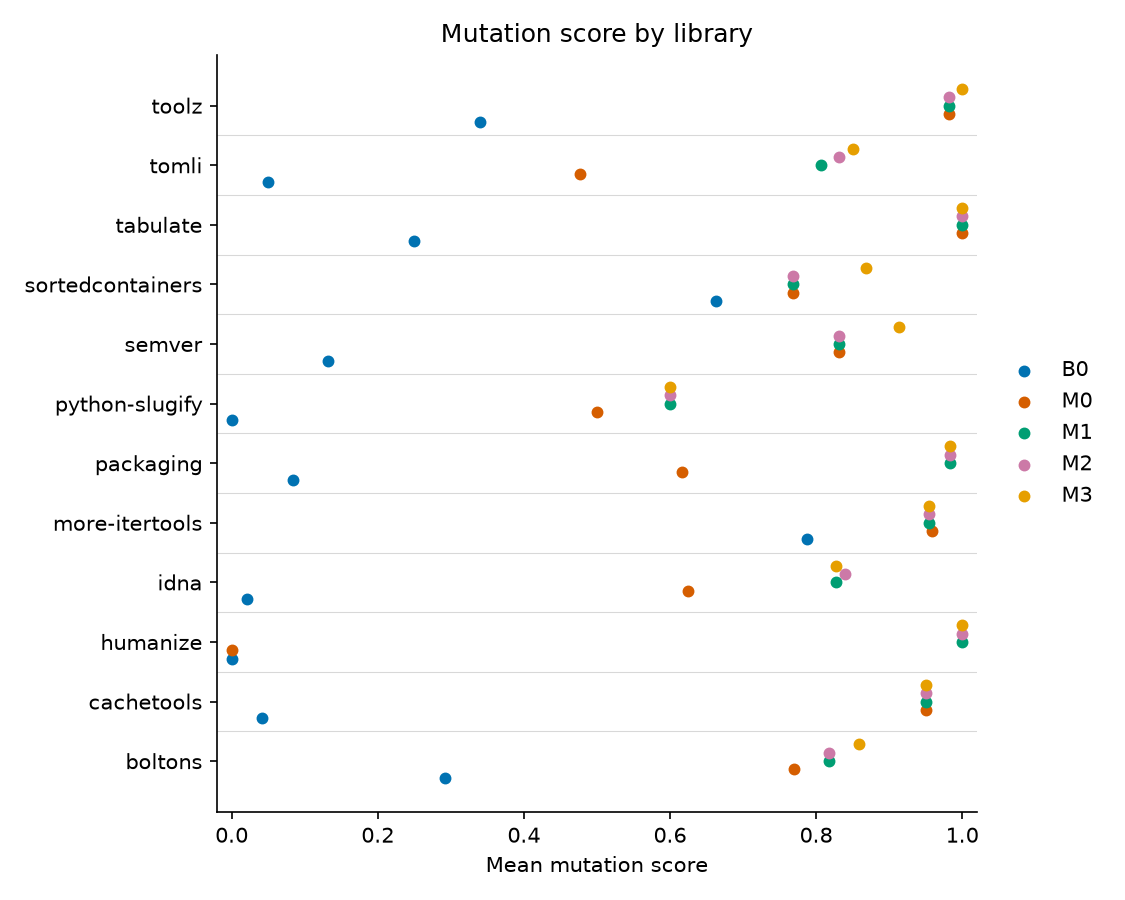
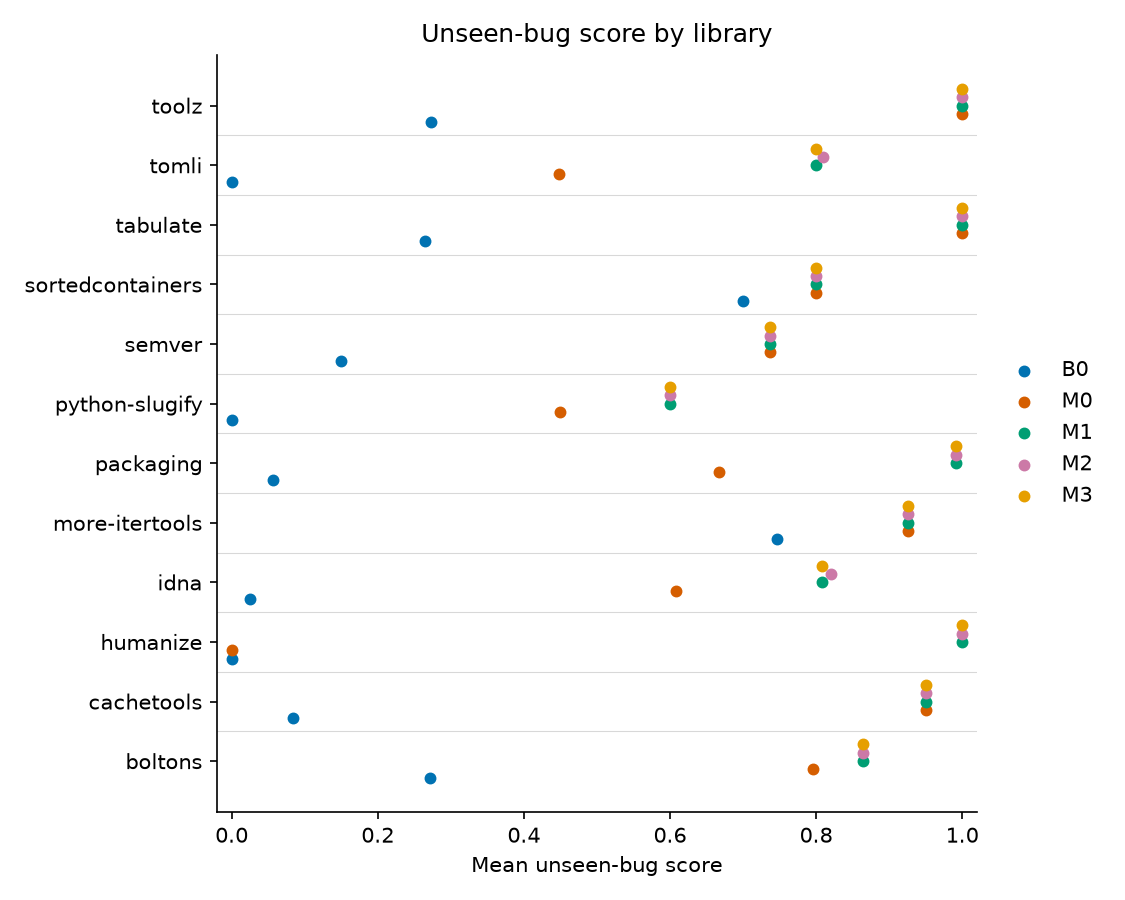
Step 6: dev results graded on unseen bugs; M3 matches M1 on all 68 functions

diff --git a/testpilot/report/evaluation.py b/testpilot/report/evaluation.py
@@ -61,10 +61,7 @@ def seed_table(
             cells = ", ".join(f"seed {s}: {m:.3f} (n={n})" for s, m, n in per_seed)
             lines.append(f"| {mode.upper()} | {cells} | {mu:.3f} | {sd:.3f} |")
     if not lines:
-        return (
-            "Not run yet: no mode has more than one seed scored. LLM modes need an API key; "
-            "see the run commands below.\n"
-        )
+        return "Not run yet: no mode has more than one seed scored.\n"
     return (
         "| Mode | Score per seed | Mean | Std dev over seeds |\n|---|---|---|---|\n"
         + "\n".join(lines)
@@ -106,6 +103,19 @@ def facts(scores: dict[str, dict]) -> str:
                 f"{sum(r.get('n_memory_kills', 0) for r in rs)} by the memory limit."
             )
     return "\n".join(out)
+
+
+def headroom(scores: dict[str, dict]) -> str:
+    """How many units a guided mode could still improve after M1."""
+    values = [r.get("unseen_score") for r in scores.get("m1", {}).values()]
+    values = [v for v in values if v is not None]
+    if not values:
+        return ""
+    full = sum(v == 1 for v in values)
+    return (
+        f"\n**Room to improve:** M1 already catches every unseen bug on {full} of {len(values)} "
+        f"units, so only {len(values) - full} could score higher with guidance.\n"
+    )
 
 
 HOLDOUT_NOTE = """
@@ -153,6 +163,9 @@ def build(split: str = "dev", seeds: list[int] | None = None, modes: list[str] |
     charts.gap_scatter(scores[gap_mode], gap_mode, folder / "chart_gap_scatter.png")
     charts.per_repo_dots(scores, folder / "chart_per_repo.png", key)
 
+    note = HOLDOUT_NOTE if key == "unseen_score" else ""
+    mode_list, seed_list = " ".join(scores), " ".join(map(str, seeds))
+
     text = f"""# Evaluation ({split} split)
 
 Scoring is fully automatic (tests run in the sandbox; no LLM judge). Primary metric: **mutation
@@ -169,7 +182,7 @@ units so an easier set of units cannot flatter one of them.
 
 ## Results
 
-{comparison_markdown(scores, seeds[0])}{HOLDOUT_NOTE if key == "unseen_score" else ""}
+{comparison_markdown(scores, seeds[0])}{headroom(scores)}{note}
 ![coverage vs mutation score](chart_coverage_vs_mutation.png)
 
 ![per-unit gap](chart_gap_scatter.png)
@@ -189,8 +202,8 @@ units so an easier set of units cannot flatter one of them.
 ## How to reproduce
 
 ```
-python -m testpilot.evaluate --modes b0 m1 m2 m3 --split {split} --seeds {" ".join(map(str, seeds))}
-python -m testpilot.cli report --split {split} --seeds {" ".join(map(str, seeds))}
+python -m testpilot.evaluate --modes {mode_list} --split {split} --seeds {seed_list}
+python -m testpilot.cli report --split {split} --modes {mode_list} --seeds {seed_list}
 ```
 
 See limitations.md for what these numbers do not show.
@@ -217,11 +230,11 @@ def limitations(scores: dict[str, dict]) -> str:
   (68 dev, 160 test), fewer than the 300 first planned. Bootstrap intervals over about 70 units
   are wide, so small differences between modes are not evidence. Results use the dev split unless
   stated; prompts were tuned on dev only, and the test split should be run once at the end.
-- **Scores can move with machine load.** A mutant run that times out or fails for any reason
-  counts as caught, and the scorer does not record which of these happened. On a busy laptop a
-  harmless slowdown can therefore raise a score; a test of the demo example once scored one extra
-  mutant as caught and matched again on reruns (load is the likely cause, not a proven one). Where
-  M1, M2 and M3 end with identical tests, compare their per-unit scores to check a given run.
+- **Scores can move with machine load.** A mutant run that times out is retried once with three
+  times the limit; if it times out again it counts as caught, and so does hitting the memory
+  limit (see the counts section for how often). Before the retry was added, rescoring the same
+  template-baseline tests changed the score of a few units, so a busy machine can still matter.
+  Where two modes end with identical tests, compare their per-unit scores to check a given run.
 - **Memorisation.** The libraries are popular and public, so the model may have seen their code
   and tests in training. Moving the repo's own tests out of the working copy stops copying from
   the prompt, not from memory. Scores may be inflated for the best-known libraries.
@@ -245,8 +258,8 @@ def limitations(scores: dict[str, dict]) -> str:
   planned for the main runs. The Gemini confirmation run has not been done, and its model ID is
   unverified. Free-tier token limits (about 200K a day) cap how many units and seeds can run.
 - **Seeds.** Variance over seeds is only measured where several seeds were actually run (a small
-  subset). With temperature 0 and cached calls, a "seed" mostly changes sampling of mutants, so
-  seed variance understates real model variance.
+  subset). A seed changes only the model's sampling seed; mutant samples and the shown/unseen
+  split stay fixed. At temperature 0 this probably understates how much results could vary.
 - **Missing comparisons.** B1 (the library's own human tests, scored per function) and B2
   (Pynguin) are not yet scored, so there is no human-test yardstick in the table.
 - **Sandbox.** Process limits and soft guards stop accidents, not a determined attacker; Docker in

diff --git a/tests/test_evaluation.py b/tests/test_evaluation.py
@@ -4,7 +4,7 @@ import pytest
 
 from testpilot import evaluate
 from testpilot.report import evaluation
-from testpilot.report.tables import load_scores
+from testpilot.report.tables import load_scores, paired_difference
 from testpilot.score.batch import score_dir
 
 
@@ -77,10 +77,15 @@ def test_report_ranks_modes_on_unseen_bugs(work, units):
         write_scores(work, mode, 0, rows)
     text = evaluation.build("dev", [0], ["m2", "m3"])
     assert "Compare modes on the unseen-bug score" in text
-    assert "M3 minus M2" in text and "unseen-bug score 0.50" in text
+    assert "M3 minus M2" in text and "unseen-bug score +0.500" in text
     assert "## By library (mean unseen-bug score)" in text and "0.75 (n=6)" in text
     limits = (evaluation.RESULTS / "dev" / "limitations.md").read_text(encoding="utf-8")
     assert "Unseen bugs are not unrelated bugs" in limits and "Small sample" in limits
+
+
+def test_a_difference_of_zero_everywhere_has_no_interval():
+    same = {u: {"unseen_score": 0.5} for u in "abc"}
+    assert paired_difference(same, same, "unseen_score") == "no difference on any of 3 units"
 
 
 def test_old_scores_without_unseen_bugs_are_not_presented_as_unseen(work, units):

diff --git a/testpilot/report/tables.py b/testpilot/report/tables.py
@@ -57,7 +57,17 @@ def paired_difference(a: dict, b: dict, key: str, seed: int = 0) -> str:
         for u in a.keys() & b.keys()
         if a[u].get(key) is not None and b[u].get(key) is not None
     ]
-    return f"{_fmt(diffs, seed)} (n={len(diffs)})" if diffs else "n/a"
+    if not diffs:
+        return "n/a"
+    if not any(diffs):
+        # A bootstrap of all zeros gives [0, 0], which would read as certainty.
+        return f"no difference on any of {len(diffs)} units"
+    low, high = bootstrap_ci(diffs, seed) or (diffs[0], diffs[0])
+    up, down = sum(d > 0 for d in diffs), sum(d < 0 for d in diffs)
+    return (
+        f"{mean(diffs):+.3f} [{low:+.3f}, {high:+.3f}] "
+        f"(higher on {up}, lower on {down}, n={len(diffs)})"
+    )
 
 
 def comparison_markdown(scores: dict[str, dict[str, dict]], seed: int = 0) -> str:

diff --git a/tests/test_scoring.py b/tests/test_scoring.py
@@ -134,4 +134,4 @@ def test_comparison_table_has_every_mode_and_a_paired_difference():
     text = comparison_markdown(scores)
     assert "| M2 |" in text and "| M3 |" in text and "M3 minus M2" in text
     assert mode_summary(list(scores["m2"].values()))["gap"].startswith("+")
-    assert paired_difference(scores["m2"], scores["m3"], "mutation_score").startswith("0.")
+    assert paired_difference(scores["m2"], scores["m3"], "mutation_score").startswith("+0.")

diff --git a/results/dev/evaluation.md b/results/dev/evaluation.md
@@ -1,8 +1,9 @@
 # Evaluation (dev split)
 
 Scoring is fully automatic (tests run in the sandbox; no LLM judge). Primary metric: **mutation
-score**, the share of injected bugs the tests catch. Line and branch coverage are reported beside
-it, because the project's question is how far coverage overstates test quality.
+score**, the share of injected bugs the tests catch. Modes are ranked on bugs held out from
+generation. Line and branch coverage are reported beside it, because the project's question is how
+far coverage overstates test quality.
 
 Modes with scored units here: B0 offline template (baseline), M0 single LLM call, M1 + repair, M2 coverage-guided (the coverage-only comparison), M3 mutation-guided.
 Modes without data are left out, not estimated.
@@ -15,21 +16,25 @@ units so an easier set of units cannot flatter one of them.
 
 Values are means with 95% bootstrap intervals over units.
 
-| Mode | Units | With tests | Line cov | Branch cov | Mutation score | Cov - mutation gap | Tokens/unit | Tokens/killed mutant |
-|---|---|---|---|---|---|---|---|---|
-| B0 | 68 | 65 | 0.41 [0.32, 0.49] | 0.30 [0.20, 0.39] | 0.27 [0.19, 0.36] | +0.14 | 0 | 0 |
-| M0 | 68 | 60 | 0.85 [0.77, 0.93] | 0.94 [0.89, 0.98] | 0.79 [0.70, 0.87] | +0.06 | 1516 | 188 |
-| M1 | 68 | 67 | 0.97 [0.94, 0.99] | 0.98 [0.96, 0.99] | 0.91 [0.87, 0.94] | +0.06 | 3092 | 296 |
-| M2 | 68 | 67 | 0.98 [0.94, 1.00] | 0.98 [0.97, 0.99] | 0.91 [0.87, 0.95] | +0.07 | 3523 | 335 |
-| M3 | 68 | 67 | 0.97 [0.94, 0.99] | 0.98 [0.96, 0.99] | 0.93 [0.89, 0.96] | +0.04 | 4822 | 455 |
+| Mode | Units | With tests | Line cov | Branch cov | Unseen-bug score | All-bug score | Cov - all-bug gap | Tokens/unit | Tokens/killed mutant |
+|---|---|---|---|---|---|---|---|---|---|
+| B0 | 68 | 65 | 0.41 [0.32, 0.49] | 0.30 [0.20, 0.39] | 0.25 [0.17, 0.34] | 0.26 [0.17, 0.35] | +0.15 | 0 | 0 |
+| M0 | 68 | 60 | 0.85 [0.77, 0.93] | 0.94 [0.89, 0.98] | 0.79 [0.70, 0.87] | 0.80 [0.71, 0.87] | +0.06 | 1516 | 177 |
+| M1 | 68 | 67 | 0.97 [0.94, 0.99] | 0.98 [0.96, 0.99] | 0.91 [0.86, 0.95] | 0.91 [0.87, 0.94] | +0.06 | 3092 | 296 |
+| M2 | 68 | 67 | 0.98 [0.94, 1.00] | 0.98 [0.97, 0.99] | 0.91 [0.86, 0.95] | 0.91 [0.87, 0.95] | +0.07 | 3523 | 335 |
+| M3 | 68 | 67 | 0.97 [0.94, 0.99] | 0.98 [0.96, 0.99] | 0.91 [0.86, 0.95] | 0.92 [0.88, 0.96] | +0.05 | 4242 | 403 |
 
-M3 minus M2 on the same units (positive = mutation-guided is better): mutation score 0.02 [0.00, 0.03] (n=68), line coverage -0.00 [-0.01, 0.00] (n=68).
+M3 minus M1 on the same units (positive = mutation-guided is better): unseen-bug score no difference on any of 68 units, line coverage no difference on any of 68 units.
 
-**Do not read M3's mutation score as a fair win.** M3 is shown the mutants that survived, keeps a
-new test file only if its score on them rises, and is then scored on those same mutants. Its score
-therefore cannot fall below that of the M1 tests it started from, and any lead over M1 or M2 is
-biased in its favour, whatever the interval says. M3 also asked for more guided rounds where its
-signal had more left to improve, so compare its tokens per unit too.
+M3 minus M2 on the same units (positive = mutation-guided is better): unseen-bug score -0.002 [-0.004, +0.000] (higher on 0, lower on 2, n=68), line coverage -0.005 [-0.012, -0.000] (higher on 0, lower on 4, n=68).
+
+**Room to improve:** M1 already catches every unseen bug on 47 of 68 units, so only 21 could score higher with guidance.
+
+**Compare modes on the unseen-bug score.** Each function's mutants are split in two by a fixed
+seed. Mutation-guided generation (M3) is shown survivors from one half only and decides what to
+keep using that half only. The unseen-bug score counts the other half, which no mode was told
+about. The all-bug score includes the half M3 saw, so it favours M3: it is listed for
+completeness and for the coverage gap, not for ranking M3.
 
 ![coverage vs mutation score](chart_coverage_vs_mutation.png)
 
@@ -37,40 +42,40 @@ signal had more left to improve, so compare its tokens per unit too.
 
 ![by library](chart_per_repo.png)
 
-## By library (mean mutation score)
+## By library (mean unseen-bug score)
 
 | Library | B0 | M0 | M1 | M2 | M3 |
 |---|---|---|---|---|---|
-| boltons | 0.29 (n=9) | 0.77 (n=9) | 0.82 (n=9) | 0.82 (n=9) | 0.86 (n=9) |
-| cachetools | 0.04 (n=4) | 0.95 (n=4) | 0.95 (n=4) | 0.95 (n=4) | 0.95 (n=4) |
+| boltons | 0.27 (n=9) | 0.80 (n=9) | 0.86 (n=9) | 0.86 (n=9) | 0.86 (n=9) |
+| cachetools | 0.08 (n=4) | 0.95 (n=4) | 0.95 (n=4) | 0.95 (n=4) | 0.95 (n=4) |
 | humanize | 0.00 (n=1) | 0.00 (n=1) | 1.00 (n=1) | 1.00 (n=1) | 1.00 (n=1) |
-| idna | 0.02 (n=4) | 0.62 (n=4) | 0.83 (n=4) | 0.84 (n=4) | 0.83 (n=4) |
-| more-itertools | 0.79 (n=9) | 0.96 (n=8) | 0.95 (n=9) | 0.95 (n=9) | 0.95 (n=9) |
-| packaging | 0.08 (n=9) | 0.62 (n=8) | 0.98 (n=9) | 0.98 (n=9) | 0.98 (n=9) |
-| python-slugify | 0.00 (n=1) | 0.50 (n=1) | 0.60 (n=1) | 0.60 (n=1) | 0.60 (n=1) |
-| semver | 0.13 (n=4) | 0.83 (n=4) | 0.83 (n=4) | 0.83 (n=4) | 0.91 (n=4) |
-| sortedcontainers | 0.66 (n=2) | 0.77 (n=2) | 0.77 (n=2) | 0.77 (n=2) | 0.87 (n=2) |
-| tabulate | 0.25 (n=9) | 1.00 (n=9) | 1.00 (n=9) | 1.00 (n=9) | 1.00 (n=9) |
-| tomli | 0.05 (n=7) | 0.48 (n=7) | 0.81 (n=7) | 0.83 (n=7) | 0.85 (n=7) |
-| toolz | 0.34 (n=9) | 0.98 (n=9) | 0.98 (n=9) | 0.98 (n=9) | 1.00 (n=9) |
+| idna | 0.03 (n=4) | 0.61 (n=4) | 0.81 (n=4) | 0.82 (n=4) | 0.81 (n=4) |
+| more-itertools | 0.75 (n=9) | 0.93 (n=9) | 0.93 (n=9) | 0.93 (n=9) | 0.93 (n=9) |
+| packaging | 0.06 (n=9) | 0.67 (n=9) | 0.99 (n=9) | 0.99 (n=9) | 0.99 (n=9) |
+| python-slugify | 0.00 (n=1) | 0.45 (n=1) | 0.60 (n=1) | 0.60 (n=1) | 0.60 (n=1) |
+| semver | 0.15 (n=4) | 0.74 (n=4) | 0.74 (n=4) | 0.74 (n=4) | 0.74 (n=4) |
+| sortedcontainers | 0.70 (n=2) | 0.80 (n=2) | 0.80 (n=2) | 0.80 (n=2) | 0.80 (n=2) |
+| tabulate | 0.26 (n=9) | 1.00 (n=9) | 1.00 (n=9) | 1.00 (n=9) | 1.00 (n=9) |
+| tomli | 0.00 (n=7) | 0.45 (n=7) | 0.80 (n=7) | 0.81 (n=7) | 0.80 (n=7) |
+| toolz | 0.27 (n=9) | 1.00 (n=9) | 1.00 (n=9) | 1.00 (n=9) | 1.00 (n=9) |
 
 ## Variance over seeds
 
-Not run yet: no mode has more than one seed scored. LLM modes need an API key; see the run commands below.
+Not run yet: no mode has more than one seed scored.
 
 ## Counts
 
-- B0: 68 units scored, 3 with no passing test, 779 mutants of which 0 flagged likely-equivalent.
-- M0: 68 units scored, 8 with no passing test, 630 mutants of which 0 flagged likely-equivalent.
-- M1: 68 units scored, 1 with no passing test, 798 mutants of which 0 flagged likely-equivalent.
-- M2: 68 units scored, 1 with no passing test, 798 mutants of which 0 flagged likely-equivalent.
-- M3: 68 units scored, 1 with no passing test, 798 mutants of which 0 flagged likely-equivalent.
+- B0: 68 units scored, 3 with no passing test, 779 mutants of which 0 flagged likely-equivalent. 423 held out; 4 mutant runs retried after a timeout, 2 counted as caught by timeout, 1 by the memory limit.
+- M0: 68 units scored, 8 with no passing test, 670 mutants of which 0 flagged likely-equivalent. 423 held out; 4 mutant runs retried after a timeout, 3 counted as caught by timeout, 1 by the memory limit.
+- M1: 68 units scored, 1 with no passing test, 798 mutants of which 0 flagged likely-equivalent. 423 held out; 4 mutant runs retried after a timeout, 3 counted as caught by timeout, 1 by the memory limit.
+- M2: 68 units scored, 1 with no passing test, 798 mutants of which 0 flagged likely-equivalent. 423 held out; 6 mutant runs retried after a timeout, 5 counted as caught by timeout, 1 by the memory limit.
+- M3: 68 units scored, 1 with no passing test, 798 mutants of which 0 flagged likely-equivalent. 423 held out; 4 mutant runs retried after a timeout, 3 counted as caught by timeout, 1 by the memory limit.
 
 ## How to reproduce
 
 ```
-python -m testpilot.evaluate --modes b0 m1 m2 m3 --split dev --seeds 0
-python -m testpilot.cli report --split dev --seeds 0
+python -m testpilot.evaluate --modes b0 m0 m1 m2 m3 --split dev --seeds 0
+python -m testpilot.cli report --split dev --modes b0 m0 m1 m2 m3 --seeds 0
 ```
 
 See limitations.md for what these numbers do not show.

diff --git a/results/dev/limitations.md b/results/dev/limitations.md
@@ -2,21 +2,22 @@
 
 ## Where the results are weak
 
-- **M3 is scored on its own feedback.** Mutation-guided generation and scoring
-  use the same mutant sample. M3's mutation score (and so its smaller coverage gap) shows that it
-  can write tests for survivors it is told about, not that those tests catch more unseen bugs. A
-  fair comparison needs bugs M3 never saw: held-out mutants or an independent tool such as mutmut.
-  Neither has been run. M2 has the same bias on line and branch coverage, the signal it is guided
-  by.
+- **Unseen bugs are not unrelated bugs.** The held-out mutants come from the same
+  engine and often the same line as mutants M3 was shown, so a test written for a shown bug can
+  catch a neighbouring held-out one. That is a milder advantage than grading on the shown bugs,
+  but the score does not prove M3 finds unrelated kinds of bug; an independent tool such as mutmut
+  would test that and has not been run. Each half is small, so per-function unseen scores are
+  coarse. The all-bug score is biased towards M3, and M2 has the same bias on line and branch
+  coverage, the signal it is guided by.
 - **Small sample, wide intervals.** The full set is 228 functions from 12 libraries
   (68 dev, 160 test), fewer than the 300 first planned. Bootstrap intervals over about 70 units
   are wide, so small differences between modes are not evidence. Results use the dev split unless
   stated; prompts were tuned on dev only, and the test split should be run once at the end.
-- **Scores can move with machine load.** A mutant run that times out or fails for any reason
-  counts as caught, and the scorer does not record which of these happened. On a busy laptop a
-  harmless slowdown can therefore raise a score; a test of the demo example once scored one extra
-  mutant as caught and matched again on reruns (load is the likely cause, not a proven one). Where
-  M1, M2 and M3 end with identical tests, compare their per-unit scores to check a given run.
+- **Scores can move with machine load.** A mutant run that times out is retried once with three
+  times the limit; if it times out again it counts as caught, and so does hitting the memory
+  limit (see the counts section for how often). Before the retry was added, rescoring the same
+  template-baseline tests changed the score of a few units, so a busy machine can still matter.
+  Where two modes end with identical tests, compare their per-unit scores to check a given run.
 - **Memorisation.** The libraries are popular and public, so the model may have seen their code
   and tests in training. Moving the repo's own tests out of the working copy stops copying from
   the prompt, not from memory. Scores may be inflated for the best-known libraries.
@@ -40,8 +41,8 @@
   planned for the main runs. The Gemini confirmation run has not been done, and its model ID is
   unverified. Free-tier token limits (about 200K a day) cap how many units and seeds can run.
 - **Seeds.** Variance over seeds is only measured where several seeds were actually run (a small
-  subset). With temperature 0 and cached calls, a "seed" mostly changes sampling of mutants, so
-  seed variance understates real model variance.
+  subset). A seed changes only the model's sampling seed; mutant samples and the shown/unseen
+  split stay fixed. At temperature 0 this probably understates how much results could vary.
 - **Missing comparisons.** B1 (the library's own human tests, scored per function) and B2
   (Pynguin) are not yet scored, so there is no human-test yardstick in the table.
 - **Sandbox.** Process limits and soft guards stop accidents, not a determined attacker; Docker in

diff --git a/LEARNING.md b/LEARNING.md
@@ -130,3 +130,12 @@ How to check: `pytest tests/test_shared_base.py`.
 - **Chart fixes.** The per-function chart now shows M1, whose tests never saw a mutant. In the library chart, equal scores used to hide one another, so each mode now has its own height.
 - **Why it matters.** When a method is graded with the same signal it optimises, the result looks like a win whether or not it is one. Reading: Goodhart's law, and train/test splits.
 - **But load noise is possible.** Later, one run of the demo test under load scored 6 of 7 mutants as caught instead of the saved 5. Three reruns at lower load gave 5 every time. The likely cause is that a slow or failed run counts as a catch; the scorer does not record why a run failed, so this is not proven. Recording timeouts separately, and retrying them once, would settle it.
+
+## Step 6: grading on bugs M3 never saw
+
+- **The fair test.** A fixed seed splits each function's mutants in two. M3 gets feedback from one half only and decides what to keep using that half only. Every mode is then ranked on the other half. This is the same idea as keeping a test set away from a model while it trains. Identical bug descriptions stay in the same half, because naming one would name both.
+- **Result (68 dev functions, one seed).** Unseen-bug score: M1 0.909, M2 0.911, M3 0.909. M3 matched M1 on every one of the 68 functions. M3 did change the tests of 4 functions and caught more of the bugs it was shown, but those 4 already caught every unseen bug. Its earlier lead (0.93 against M1's 0.91) came from the old, unfair grading.
+- **What this does not show.** It does not show that mutation guidance is useless. After M1, 47 of 68 functions already catch every unseen bug, so only 21 could improve, and M3 asked for a guided round on 13 of those. Those functions are also small, each half holds few bugs, and some surviving mutants may behave exactly like the original code, which no test can catch. Harder functions or more kinds of mutant would be needed to see a small effect.
+- **Why the zero has no interval.** Resampling a list of all zeros always gives zero, so the bootstrap would print [0.00, 0.00]. That looks certain and is not, so the report says "no difference on any unit" instead.
+- **Timeouts.** A mutant run that times out now gets one retry with three times the time, and the report counts what was caught by timeout. On the same tests, the three LLM modes M0 to M2 kept the same all-bug score for every function that had one before; five template-baseline scores went down. The likely reason is that the older scoring counted some slow runs as caught, but the older runs did not record reasons.
+- **A bug the checks found.** M0 had two functions with no score. A parametrized test (one test run on several inputs) was kept even when some inputs failed, because the filter only asked whether any input passed. It now drops the whole test. Rerunning every guided M2 and M3 function showed that their results did not change. Reading: any text on data leakage and held-out evaluation.
